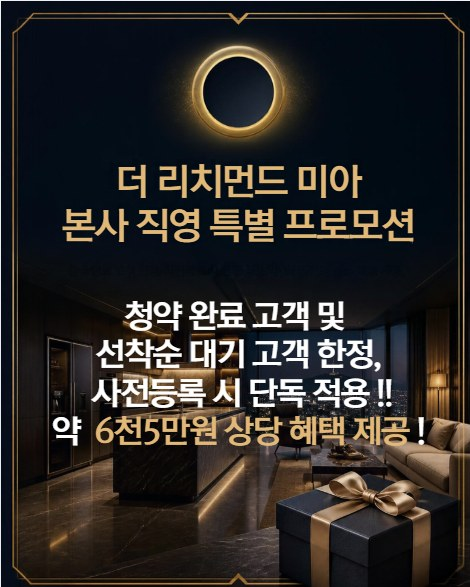
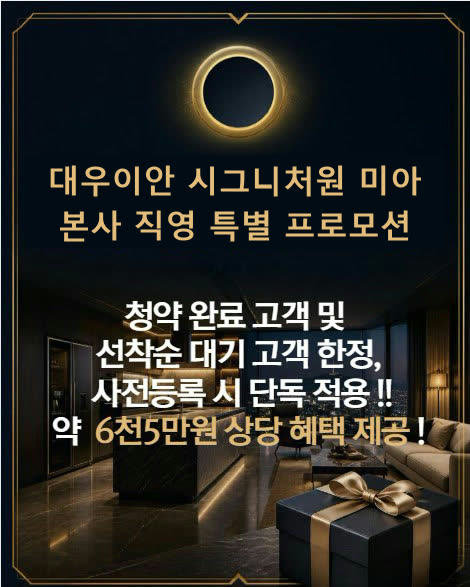
현장명 변경: 더 리치먼드 미아 → 대우이안 시그니처원 미아
이름이 들어가던 45곳(제목·OG·트위터·JSON-LD 3개·FAQ·본문·푸터·접수 메일)을
한 번에 바꿨다. 영문은 DAEWOO IAAN / IAAN Signature One Mia.

이름 어원이 바뀌어서 브랜드 아이덴티티 섹션(풍요 RICH + 다이아몬드 DIAMOND)은
문장을 다시 썼다. 공고문에 있는 사실(입지·규모·세대수·주택형)만 쓴다.

팝업 이미지(promo-popup.jpg)에 옛 이름이 구워져 있어 제목 두 줄을 다시 그렸다.
배경이 거의 평평해 덮어도 티가 안 난다. 두 줄을 같은 글꼴로 다시 그려 서로 맞췄다.

일부러 그대로 둔 것:
- 주소 richmond-mia.vercel.app — 검색엔진 등록·명함 링크가 걸려 있다.
- images/rm/, localStorage 키, ADGUARD_SITE, consult.js 의 source,
  토스 custom_param1 — 내부 식별자다. 바꾸면 기존 접수·부정클릭 통계가 쪼개진다.
- 사업개요의 시공사(태원건설산업㈜)·사업주체 — 공고문 값이다.
- 키워드와 사업개요 브랜드명칭에 옛 이름을 남겼다(검색 연속성).

측정: 콘솔 오류 없음, 1280/375 폭 모두 가로 넘침 없음,
헤더 브랜드 폭 149.6 → 138.4px(전보다 좁아져 내비가 안 밀린다),
'(구 더 리치먼드 미아)' 대비 5.5:1.

Changed region(s): [[0.0894, 0.276, 0.8936, 0.4293]]

diff --git a/index.html b/index.html
@@ -4,30 +4,30 @@
 <meta charset="UTF-8">
 <meta name="viewport" content="width=device-width, initial-scale=1.0">
 
-<title>더 리치먼드 미아 | 삼양사거리역 30초 역세권 24층 118세대 분양</title>
+<title>대우이안 시그니처원 미아 | 삼양사거리역 30초 역세권 24층 118세대 분양</title>
 <meta name="description" content="서울 강북구 미아동 703-13번지, 지하 5층~지상 24층 1개 동 총 118세대. 우이신설선 삼양사거리역 도보 30초 초역세권. 전용 49㎡·59㎡, 2028년 9월 입주 예정. 방문상담 예약 안내.">
-<meta name="keywords" content="더 리치먼드 미아, 리치먼드 미아, 강북구 미아동 분양, 삼양사거리역 역세권, 미아동 703-13, 서울 강북 아파트 분양, 우이신설선 역세권, 미아 무순위">
-<meta name="author" content="더 리치먼드 미아 분양 안내">
+<meta name="keywords" content="대우이안 시그니처원 미아, 이안 시그니처원 미아, 더 리치먼드 미아, 강북구 미아동 분양, 삼양사거리역 역세권, 미아동 703-13, 서울 강북 아파트 분양, 우이신설선 역세권, 미아 무순위">
+<meta name="author" content="대우이안 시그니처원 미아 분양 안내">
 <meta name="robots" content="index, follow, max-image-preview:large">
 <link rel="canonical" href="https://richmond-mia.vercel.app/">
 <meta name="theme-color" content="#0C162F">
 
 <meta property="og:type" content="website">
 <meta property="og:url" content="https://richmond-mia.vercel.app/">
-<meta property="og:title" content="더 리치먼드 미아 | 삼양사거리역 30초 역세권 118세대">
+<meta property="og:title" content="대우이안 시그니처원 미아 | 삼양사거리역 30초 역세권 118세대">
 <meta property="og:description" content="서울 강북구 미아동 703-13번지, 지하 5층~지상 24층 총 118세대. 우이신설선 삼양사거리역 도보 30초 초역세권.">
 <meta property="og:image" content="https://richmond-mia.vercel.app/images/rm/og-image.jpg">
 <meta property="og:image:width" content="1200">
 <meta property="og:image:height" content="630">
-<meta property="og:image:alt" content="더 리치먼드 미아 조감도">
+<meta property="og:image:alt" content="대우이안 시그니처원 미아 조감도">
 <meta property="og:locale" content="ko_KR">
-<meta property="og:site_name" content="더 리치먼드 미아 분양 안내">
+<meta property="og:site_name" content="대우이안 시그니처원 미아 분양 안내">
 
 <meta name="twitter:card" content="summary_large_image">
-<meta name="twitter:title" content="더 리치먼드 미아 | 삼양사거리역 30초 역세권 118세대">
+<meta name="twitter:title" content="대우이안 시그니처원 미아 | 삼양사거리역 30초 역세권 118세대">
 <meta name="twitter:description" content="서울 강북구 미아동 703-13번지, 지하 5층~지상 24층 총 118세대. 우이신설선 삼양사거리역 도보 30초 초역세권.">
 <meta name="twitter:image" content="https://richmond-mia.vercel.app/images/rm/og-image.jpg">
-<meta name="twitter:image:alt" content="더 리치먼드 미아 조감도">
+<meta name="twitter:image:alt" content="대우이안 시그니처원 미아 조감도">
 
 <meta name="geo.region" content="KR-11">
 <meta name="geo.placename" content="서울특별시 강북구 미아동">
@@ -43,7 +43,7 @@
 {
   "@context": "https://schema.org",
   "@type": "RealEstateListing",
-  "name": "더 리치먼드 미아",
+  "name": "대우이안 시그니처원 미아",
   "description": "서울특별시 강북구 미아동 703-13번지, 지하 5층~지상 24층 1개 동 총 118세대 규모의 주거복합 신축. 우이신설선 삼양사거리역 인근. 전용 49㎡·59㎡.",
   "url": "https://richmond-mia.vercel.app/",
   "image": "https://richmond-mia.vercel.app/images/rm/og-image.jpg",
@@ -676,19 +676,19 @@ input::placeholder,textarea::placeholder{color:#A7B0BD}
     "@context": "https://schema.org",
     "@type": "Organization",
     "name": "태원건설산업 주식회사",
-    "description": "더 리치먼드 미아 시공사"
+    "description": "대우이안 시그니처원 미아 시공사"
   },
   {
     "@context": "https://schema.org",
     "@type": "Organization",
     "name": "우리자산신탁 주식회사",
-    "description": "더 리치먼드 미아 사업주체(시행수탁자)"
+    "description": "대우이안 시그니처원 미아 사업주체(시행수탁자)"
   },
   {
     "@context": "https://schema.org",
     "@type": "Organization",
     "name": "주식회사 베스트도시개발",
-    "description": "더 리치먼드 미아 시행위탁자"
+    "description": "대우이안 시그니처원 미아 시행위탁자"
   }
 ]
 </script>
@@ -696,7 +696,7 @@ input::placeholder,textarea::placeholder{color:#A7B0BD}
 {
   "@context": "https://schema.org",
   "@type": "LocalBusiness",
-  "name": "더 리치먼드 미아 주택전시관",
+  "name": "대우이안 시그니처원 미아 주택전시관",
   "image": "https://richmond-mia.vercel.app/images/rm/og-image.jpg",
   "url": "https://richmond-mia.vercel.app/",
   "telephone": "1666-0753",
@@ -722,7 +722,7 @@ input::placeholder,textarea::placeholder{color:#A7B0BD}
   "mainEntity": [
     {
       "@type": "Question",
-      "name": "더 리치먼드 미아는 어디에 위치해 있나요?",
+      "name": "대우이안 시그니처원 미아는 어디에 위치해 있나요?",
       "acceptedAnswer": {
         "@type": "Answer",
         "text": "서울특별시 강북구 미아동 703-13번지, 도로명으로는 삼양로 184입니다. 우이신설선 삼양사거리역 1번 출구와 도보 30초 거리의 초역세권 입지입니다."
@@ -791,8 +791,8 @@ input::placeholder,textarea::placeholder{color:#A7B0BD}
 {
   "@context": "https://schema.org",
   "@type": "WebSite",
-  "name": "더 리치먼드 미아",
-  "alternateName": "THE RICHMOND MIA",
+  "name": "대우이안 시그니처원 미아",
+  "alternateName": "DAEWOO IAAN SIGNATURE ONE MIA",
   "url": "https://richmond-mia.vercel.app/",
   "inLanguage": "ko-KR"
 }
@@ -807,8 +807,8 @@ input::placeholder,textarea::placeholder{color:#A7B0BD}
 <header class="hdr" id="hdr">
   <div class="hdr-in">
     <a class="brand" href="#p-brand" data-go="p-brand">
-      <span class="bt" translate="no">THE RICHMOND</span>
-      <span class="bs">더 리치먼드 미아</span>
+      <span class="bt" translate="no">DAEWOO IAAN</span>
+      <span class="bs">대우이안 시그니처원 미아</span>
     </a>
     <nav class="gnb" id="gnb" role="navigation" aria-label="메인 네비게이션">
       <a href="#p-brand"    data-go="p-brand">브랜드</a>
@@ -851,13 +851,13 @@ input::placeholder,textarea::placeholder{color:#A7B0BD}
 <!-- ═══════════════ 01. 브랜드 ═══════════════ -->
 <div class="page active" id="p-brand">
 
-  <section class="hero" aria-label="더 리치먼드 미아">
+  <section class="hero" aria-label="대우이안 시그니처원 미아">
     <div class="hero-bg">
-      <img src="./images/rm/hero-main.jpg" alt="더 리치먼드 미아 조감도 — 삼양사거리역 앞 지상 24층 주거복합 단지" width="1920" height="990" fetchpriority="high">
+      <img src="./images/rm/hero-main.jpg" alt="대우이안 시그니처원 미아 조감도 — 삼양사거리역 앞 지상 24층 주거복합 단지" width="1920" height="990" fetchpriority="high">
     </div>
     <span class="hero-line" aria-hidden="true"></span>
     <div class="hero-in">
-      <p class="hero-eb">Seoul Gangbuk · The Richmond Mia</p>
+      <p class="hero-eb">Seoul Gangbuk · IAAN Signature One Mia</p>
       <h1>
         <span>편리함이 일상이 되다</span>
         <span><em>30초</em> 역세권</span>
@@ -882,8 +882,8 @@ input::placeholder,textarea::placeholder{color:#A7B0BD}
       <div class="intro-grid">
         <div class="intro-copy reveal">
           <p class="eyebrow">Brand Identity</p>
-          <h2>풍요(RICH)와 다이아몬드(DIAMOND),<br>더 리치먼드가 담은 이름</h2>
-          <p>더 리치먼드는 단순한 주거 공간을 넘어 가치 있는 삶과 빛나는 일상을 누리는 공간을 의미하며, 고급스러움과 실용성, 삶의 품격을 모두 갖춘 프리미엄 라이프스타일을 지향합니다. 익숙한 일상이 특별한 순간으로 바뀌고 머물고 싶은 집이 인생의 가장 소중한 공간이 되도록, 고객의 하루를 섬세하게 디자인합니다.</p>
+          <h2>미아에 들어서는<br>단 하나의 시그니처</h2>
+          <p>시그니처원(SIGNATURE ONE)은 미아에 단 하나뿐인 기준이 되겠다는 이름입니다. 우이신설선 삼양사거리역을 코앞에 둔 자리에 지하 5층·지상 24층 한 개 동, 총 118세대로 들어섭니다. 전용 49㎡·59㎡의 실속 있는 주택형과 역·상권·학교를 걸어서 오가는 생활권을 함께 갖춰, 매일 쓰는 시간을 아껴주는 집을 지향합니다.</p>
           <dl class="intro-meta">
             <div><dt>Location</dt><dd>강북구 미아동 703-13</dd></div>
             <div><dt>Scale</dt><dd>지하 5층 ~ 지상 24층</dd></div>
@@ -892,7 +892,7 @@ input::placeholder,textarea::placeholder{color:#A7B0BD}
           </dl>
         </div>
         <figure class="intro-fig reveal" style="--d:120ms">
-          <img src="./images/rm/about-cg.jpg" alt="더 리치먼드 미아 저층부 상업시설과 주동 전경 CG" loading="lazy" width="1400" height="649">
+          <img src="./images/rm/about-cg.jpg" alt="대우이안 시그니처원 미아 저층부 상업시설과 주동 전경 CG" loading="lazy" width="1400" height="649">
           <figcaption>CG · 실제와 차이가 있을 수 있습니다</figcaption>
         </figure>
       </div>
@@ -904,14 +904,14 @@ input::placeholder,textarea::placeholder{color:#A7B0BD}
       <div class="sect-hd reveal">
         <p class="eyebrow">Film</p>
         <h2 id="h-video">단지를 먼저<br>영상으로 만나보세요</h2>
-        <p>더 리치먼드 미아 공식 브랜드 영상입니다. 클릭하면 유튜브에서 바로 재생됩니다.</p>
+        <p>대우이안 시그니처원 미아 공식 브랜드 영상입니다. 클릭하면 유튜브에서 바로 재생됩니다.</p>
       </div>
       <button type="button" class="vid reveal" data-yt="7Hx2-A8d7zM">
         <span class="vid-shot">
-          <img src="./images/rm/yt-brand.jpg" alt="더 리치먼드 미아 브랜드 영상 — 30초 역세권" loading="lazy" width="1280" height="720">
+          <img src="./images/rm/yt-brand.jpg" alt="대우이안 시그니처원 미아 브랜드 영상 — 30초 역세권" loading="lazy" width="1280" height="720">
           <span class="vid-play" aria-hidden="true"></span>
         </span>
-        <span class="vid-cap">30초 역세권, 더 리치먼드 미아</span>
+        <span class="vid-cap">30초 역세권, 대우이안 시그니처원 미아</span>
       </button>
     </div>
   </section>
@@ -1033,11 +1033,11 @@ input::placeholder,textarea::placeholder{color:#A7B0BD}
       <div class="sect-hd reveal">
         <p class="eyebrow">Location</p>
         <h2 id="h-loc">삼양사거리역 30초,<br>서울 전역으로 열리는 자리</h2>
-        <p>더 리치먼드 미아는 우이신설선 삼양사거리역과 단 30초 거리의 초역세권 입지로, 서울 전역을 빠르게 연결하는 교통 네트워크를 갖추고 있습니다. 풍부한 생활 인프라, 쾌적한 자연환경, 우수한 교육 여건까지 모두를 품었습니다.</p>
+        <p>대우이안 시그니처원 미아는 우이신설선 삼양사거리역과 단 30초 거리의 초역세권 입지로, 서울 전역을 빠르게 연결하는 교통 네트워크를 갖추고 있습니다. 풍부한 생활 인프라, 쾌적한 자연환경, 우수한 교육 여건까지 모두를 품었습니다.</p>
       </div>
 
       <button type="button" class="map-frame reveal" data-lb="./images/rm/loc-map.jpg">
-        <img src="./images/rm/loc-map.jpg" alt="더 리치먼드 미아 입지환경도 — 삼양사거리역, 미아사거리 상권, 북한산, 북서울 꿈의숲, 주변 학군 표시" loading="lazy" width="1600" height="1300">
+        <img src="./images/rm/loc-map.jpg" alt="대우이안 시그니처원 미아 입지환경도 — 삼양사거리역, 미아사거리 상권, 북한산, 북서울 꿈의숲, 주변 학군 표시" loading="lazy" width="1600" height="1300">
         <span class="zoom">클릭하면 크게 보입니다</span>
       </button>
 
@@ -1137,7 +1137,7 @@ input::placeholder,textarea::placeholder{color:#A7B0BD}
         <h2>생활권 안내도</h2>
       </div>
       <figure class="plan-fig reveal" data-lb="./images/rm/illust-map.jpg">
-        <img src="./images/rm/illust-map.jpg" alt="더 리치먼드 미아 생활권 일러스트맵 — 삼양사거리역 주변 학교·상권·공원 위치" loading="lazy" width="1400" height="1718">
+        <img src="./images/rm/illust-map.jpg" alt="대우이안 시그니처원 미아 생활권 일러스트맵 — 삼양사거리역 주변 학교·상권·공원 위치" loading="lazy" width="1400" height="1718">
         <figcaption>생활권 일러스트맵 <span class="zoomhint">클릭하면 확대</span></figcaption>
       </figure>
 
@@ -1160,17 +1160,17 @@ input::placeholder,textarea::placeholder{color:#A7B0BD}
       </div>
 
       <figure class="plan-fig reveal" data-lb="./images/rm/site-plan.jpg">
-        <img src="./images/rm/site-plan.jpg" alt="더 리치먼드 미아 단지 배치도 — 1호부터 6호까지 호실별 타입 배치와 옥외휴게공간, 지하주차장 출입구" loading="lazy" width="1400" height="1080">
+        <img src="./images/rm/site-plan.jpg" alt="대우이안 시그니처원 미아 단지 배치도 — 1호부터 6호까지 호실별 타입 배치와 옥외휴게공간, 지하주차장 출입구" loading="lazy" width="1400" height="1080">
         <figcaption>단지 배치도 · 호실별 타입 색상 범례 포함 <span class="zoomhint">클릭하면 확대</span></figcaption>
       </figure>
 
       <figure class="plan-fig reveal" data-lb="./images/rm/floor-info.jpg">
-        <img src="./images/rm/floor-info.jpg" alt="더 리치먼드 미아 층별 안내 — 4F~24F 공동주택, 3F 청소년 특화시설, B1~2F 생활편의시설, B2~B5 주차장" loading="lazy" width="1400" height="1718">
+        <img src="./images/rm/floor-info.jpg" alt="대우이안 시그니처원 미아 층별 안내 — 4F~24F 공동주택, 3F 청소년 특화시설, B1~2F 생활편의시설, B2~B5 주차장" loading="lazy" width="1400" height="1718">
         <figcaption>층별 안내 &middot; 단지 배치 &amp; 커뮤니티 <span class="zoomhint">클릭하면 확대</span></figcaption>
       </figure>
 
       <figure class="plan-fig reveal" data-lb="./images/rm/unit-chart.jpg">
-        <img src="./images/rm/unit-chart.jpg" alt="더 리치먼드 미아 동·호수 배치표 — 4층부터 24층까지 호실별 주택형과 타입별 세대수" loading="lazy" width="1300" height="1616">
+        <img src="./images/rm/unit-chart.jpg" alt="대우이안 시그니처원 미아 동·호수 배치표 — 4층부터 24층까지 호실별 주택형과 타입별 세대수" loading="lazy" width="1300" height="1616">
         <figcaption>동 &middot; 호수 배치표 <span class="zoomhint">클릭하면 확대</span></figcaption>
       </figure>
 
@@ -1179,10 +1179,10 @@ input::placeholder,textarea::placeholder{color:#A7B0BD}
         <h2>조감도 &middot; 투시도</h2>
       </div>
       <div class="eyegrid reveal">
-        <figure data-lb="./images/rm/hero-main.jpg"><img src="./images/rm/hero-main.jpg" alt="더 리치먼드 미아 석양 조감도" loading="lazy" width="1920" height="990"></figure>
-        <figure data-lb="./images/rm/cg-front.jpg"><img src="./images/rm/cg-front.jpg" alt="더 리치먼드 미아 주간 전면 투시도" loading="lazy" width="1600" height="825"></figure>
-        <figure data-lb="./images/rm/drone-station.jpg"><img src="./images/rm/drone-station.jpg" alt="더 리치먼드 미아 항공 조감 — 삼양사거리역과의 거리 표시" loading="lazy" width="1600" height="900"></figure>
-        <figure data-lb="./images/rm/about-cg.jpg"><img src="./images/rm/about-cg.jpg" alt="더 리치먼드 미아 저층부 상업시설 투시도" loading="lazy" width="1400" height="649"></figure>
+        <figure data-lb="./images/rm/hero-main.jpg"><img src="./images/rm/hero-main.jpg" alt="대우이안 시그니처원 미아 석양 조감도" loading="lazy" width="1920" height="990"></figure>
+        <figure data-lb="./images/rm/cg-front.jpg"><img src="./images/rm/cg-front.jpg" alt="대우이안 시그니처원 미아 주간 전면 투시도" loading="lazy" width="1600" height="825"></figure>
+        <figure data-lb="./images/rm/drone-station.jpg"><img src="./images/rm/drone-station.jpg" alt="대우이안 시그니처원 미아 항공 조감 — 삼양사거리역과의 거리 표시" loading="lazy" width="1600" height="900"></figure>
+        <figure data-lb="./images/rm/about-cg.jpg"><img src="./images/rm/about-cg.jpg" alt="대우이안 시그니처원 미아 저층부 상업시설 투시도" loading="lazy" width="1400" height="649"></figure>
       </div>
 
       <p class="note reveal">
@@ -1214,7 +1214,7 @@ input::placeholder,textarea::placeholder{color:#A7B0BD}
       <div class="reveal">
         <div class="upanel on" role="tabpanel" id="up-49a" aria-labelledby="ut-49a">
           <figure class="uimg" data-lb="./images/rm/unit-49a.jpg">
-            <img src="./images/rm/unit-49a.jpg" alt="더 리치먼드 미아 49A 타입 기본 아이소메트릭과 기본 평면도" loading="lazy" width="1200" height="1008">
+            <img src="./images/rm/unit-49a.jpg" alt="대우이안 시그니처원 미아 49A 타입 기본 아이소메트릭과 기본 평면도" loading="lazy" width="1200" height="1008">
           </figure>
           <div class="uspec">
             <h3>49A TYPE</h3>
@@ -1230,7 +1230,7 @@ input::placeholder,textarea::placeholder{color:#A7B0BD}
         </div>
         <div class="upanel" role="tabpanel" id="up-49b" aria-labelledby="ut-49b" hidden>
           <figure class="uimg" data-lb="./images/rm/unit-49b.jpg">
-            <img src="./images/rm/unit-49b.jpg" alt="더 리치먼드 미아 49B 타입 기본 아이소메트릭과 기본 평면도" loading="lazy" width="1200" height="1008">
+            <img src="./images/rm/unit-49b.jpg" alt="대우이안 시그니처원 미아 49B 타입 기본 아이소메트릭과 기본 평면도" loading="lazy" width="1200" height="1008">
           </figure>
           <div class="uspec">
             <h3>49B TYPE</h3>
@@ -1246,7 +1246,7 @@ input::placeholder,textarea::placeholder{color:#A7B0BD}
         </div>
         <div class="upanel" role="tabpanel" id="up-59a" aria-labelledby="ut-59a" hidden>
           <figure class="uimg" data-lb="./images/rm/unit-59a.jpg">
-            <img src="./images/rm/unit-59a.jpg" alt="더 리치먼드 미아 59A 타입 기본 아이소메트릭과 기본 평면도" loading="lazy" width="1200" height="1024">
+            <img src="./images/rm/unit-59a.jpg" alt="대우이안 시그니처원 미아 59A 타입 기본 아이소메트릭과 기본 평면도" loading="lazy" width="1200" height="1024">
           </figure>
           <div class="uspec">
             <h3>59A TYPE</h3>
@@ -1329,21 +1329,21 @@ input::placeholder,textarea::placeholder{color:#A7B0BD}
         <div class="fin reveal">
           <h3>인테리어</h3>
           <div class="shot" data-lb="./images/rm/finish-1.jpg" role="button" tabindex="0" aria-label="인테리어 마감재 리스트 크게 보기">
-            <img src="./images/rm/finish-1.jpg" alt="더 리치먼드 미아 인테리어 마감재 리스트" loading="lazy" width="1200" height="5181">
+            <img src="./images/rm/finish-1.jpg" alt="대우이안 시그니처원 미아 인테리어 마감재 리스트" loading="lazy" width="1200" height="5181">
           </div>
           <button class="more" type="button" data-open="./images/rm/finish-1.jpg">전체 표 크게 보기</button>
         </div>
         <div class="fin reveal">
           <h3>전기</h3>
           <div class="shot" data-lb="./images/rm/finish-2.jpg" role="button" tabindex="0" aria-label="전기 마감재 리스트 크게 보기">
-            <img src="./images/rm/finish-2.jpg" alt="더 리치먼드 미아 전기 설비 마감재 리스트" loading="lazy" width="1200" height="3213">
+            <img src="./images/rm/finish-2.jpg" alt="대우이안 시그니처원 미아 전기 설비 마감재 리스트" loading="lazy" width="1200" height="3213">
           </div>
           <button class="more" type="button" data-open="./images/rm/finish-2.jpg">전체 표 크게 보기</button>
         </div>
         <div class="fin reveal">
           <h3>설비</h3>
           <div class="shot" data-lb="./images/rm/finish-3.jpg" role="button" tabindex="0" aria-label="설비 마감재 리스트 크게 보기">
-            <img src="./images/rm/finish-3.jpg" alt="더 리치먼드 미아 기계 설비 마감재 리스트" loading="lazy" width="1200" height="2576">
+            <img src="./images/rm/finish-3.jpg" alt="대우이안 시그니처원 미아 기계 설비 마감재 리스트" loading="lazy" width="1200" height="2576">
           </div>
           <button class="more" type="button" data-open="./images/rm/finish-3.jpg">전체 표 크게 보기</button>
         </div>
@@ -1368,10 +1368,10 @@ input::placeholder,textarea::placeholder{color:#A7B0BD}
 
       <div class="tbl-scroll tbl-vert reveal">
         <table>
-          <caption>더 리치먼드 미아 사업개요</caption>
+          <caption>대우이안 시그니처원 미아 사업개요</caption>
           <tbody>
             <tr><th scope="row">사업명</th><td>삼양사거리역 역세권 활성화 주거복합 신축개발 사업</td></tr>
-            <tr><th scope="row">브랜드명칭</th><td>더 리치먼드 미아</td></tr>
+            <tr><th scope="row">브랜드명칭</th><td>대우이안 시그니처원 미아 <small style="color:#5F6B7A;font-weight:600">(구 더 리치먼드 미아)</small></td></tr>
             <tr><th scope="row">위치</th><td><address>서울특별시 강북구 미아동 703-13번지 (삼양로 184)</address></td></tr>
             <tr><th scope="row">지역지구</th><td>근린상업지역 / 역세권 활성화 사업</td></tr>
             <tr><th scope="row">용도</th><td>공동주택, 근린생활시설, 청소년 특화시설</td></tr>
@@ -1504,7 +1504,7 @@ input::placeholder,textarea::placeholder{color:#A7B0BD}
       <div class="faq">
         <dl>
           <div>
-            <dt>더 리치먼드 미아는 어디에 위치해 있나요?</dt>
+            <dt>대우이안 시그니처원 미아는 어디에 위치해 있나요?</dt>
             <dd>서울특별시 강북구 미아동 703-13번지, 도로명으로는 삼양로 184입니다.
               우이신설선 삼양사거리역 1번 출구와 도보 30초 거리의 초역세권 입지입니다.</dd>
           </div>
@@ -1678,7 +1678,7 @@ input::placeholder,textarea::placeholder{color:#A7B0BD}
           </div>
 
           <figure class="plan-fig reveal" style="margin-top:clamp(24px,3vw,34px)" data-lb="./images/rm/way-map.jpg">
-            <img src="./images/rm/way-map.jpg" alt="더 리치먼드 미아 주택전시관과 현장 약도" loading="lazy" width="1800" height="955">
+            <img src="./images/rm/way-map.jpg" alt="대우이안 시그니처원 미아 주택전시관과 현장 약도" loading="lazy" width="1800" height="955">
             <figcaption>주택전시관 &middot; 현장 약도 <span class="zoomhint">클릭하면 확대</span></figcaption>
           </figure>
         </div>
@@ -1694,8 +1694,8 @@ input::placeholder,textarea::placeholder{color:#A7B0BD}
   <div class="wrap">
     <div class="ftr-top">
       <div>
-        <p class="bt">THE RICHMOND</p>
-        <p style="margin-top:8px;color:#B6C4D6;font-size:14px;font-weight:600">더 리치먼드 미아 분양 안내</p>
+        <p class="bt">DAEWOO IAAN</p>
+        <p style="margin-top:8px;color:#B6C4D6;font-size:14px;font-weight:600">대우이안 시그니처원 미아 분양 안내</p>
       </div>
       <nav class="ftr-links" aria-label="푸터 메뉴">
         <a href="#p-brand" data-go="p-brand">브랜드</a>
@@ -1728,7 +1728,7 @@ input::placeholder,textarea::placeholder{color:#A7B0BD}
       </div>
     </div>
 
-    <p class="copy">© 더 리치먼드 미아 분양 안내. All rights reserved.</p>
+    <p class="copy">© 대우이안 시그니처원 미아 분양 안내. All rights reserved.</p>
   </div>
 </footer>
 
@@ -2042,7 +2042,7 @@ input::placeholder,textarea::placeholder{color:#A7B0BD}
   <div class="pw-in" id="pwIn">
     <div class="pw-body">
       <button class="pw-x" type="button" id="pwX" aria-label="팝업 닫기">&#10005;</button>
-      <p class="pw-eb">The Richmond Mia</p>
+      <p class="pw-eb">IAAN Signature One Mia</p>
       <h2 class="pw-h" id="pwH">무순위(사후) <em>3차</em><br>청약 일정 안내</h2>
 
       <div class="pw-list">
@@ -2073,7 +2073,7 @@ input::placeholder,textarea::placeholder{color:#A7B0BD}
     <div class="pw-body pw-body-img">
       <button class="pw-x" type="button" id="pwX2" aria-label="팝업 닫기">&#10005;</button>
       <img src="./images/rm/promo-popup.jpg"
-           alt="더 리치먼드 미아 본사 직영 특별 프로모션 — 청약 완료 고객 및 선착순 대기 고객 한정, 사전등록 시 단독 적용"
+           alt="대우이안 시그니처원 미아 본사 직영 특별 프로모션 — 청약 완료 고객 및 선착순 대기 고객 한정, 사전등록 시 단독 적용"
            width="470" height="587">
       <button class="pw-b pw-b2 pw-apply" type="button" id="pwApply">신청하기</button>
     </div>

diff --git a/api/consult.js b/api/consult.js
@@ -50,16 +50,16 @@ module.exports = async (req, res) => {
       body: JSON.stringify({
         from: 'onboarding@resend.dev',
         to: ['xinkorea@naver.com'],
-        subject: `[더 리치먼드 미아] 새 방문예약 — ${name}`,
+        subject: `[대우이안 시그니처원 미아] 새 방문예약 — ${name}`,
         html: `
           <div style="font-family:'Apple SD Gothic Neo',sans-serif;max-width:520px;margin:0 auto;">
             <h2 style="color:#0C162F;border-bottom:2px solid #C09C78;padding-bottom:10px;margin-bottom:16px;">
-              더 리치먼드 미아 · 새 방문예약이 접수되었습니다
+              대우이안 시그니처원 미아 · 새 방문예약이 접수되었습니다
             </h2>
             <table style="width:100%;border-collapse:collapse;">
               <tr>
                 <td style="padding:10px 14px;background:#F5F3F0;font-weight:700;width:30%;border:1px solid #E4E8EE;color:#0C162F;">현장</td>
-                <td style="padding:10px 14px;border:1px solid #E4E8EE;"><strong style="color:#8B6A4A;">더 리치먼드 미아</strong></td>
+                <td style="padding:10px 14px;border:1px solid #E4E8EE;"><strong style="color:#8B6A4A;">대우이안 시그니처원 미아</strong></td>
               </tr>
               <tr>
                 <td style="padding:10px 14px;background:#F5F3F0;font-weight:700;width:30%;border:1px solid #E4E8EE;color:#0C162F;">이름</td>
@@ -81,7 +81,7 @@ module.exports = async (req, res) => {
               </tr>
             </table>
             <p style="margin-top:20px;color:#98A0AC;font-size:12px;">
-              더 리치먼드 미아 분양 안내 ·
+              대우이안 시그니처원 미아 분양 안내 ·
               <a href="https://richmond-mia.vercel.app" style="color:#8B6A4A;">홈페이지 바로가기</a>
             </p>
           </div>
